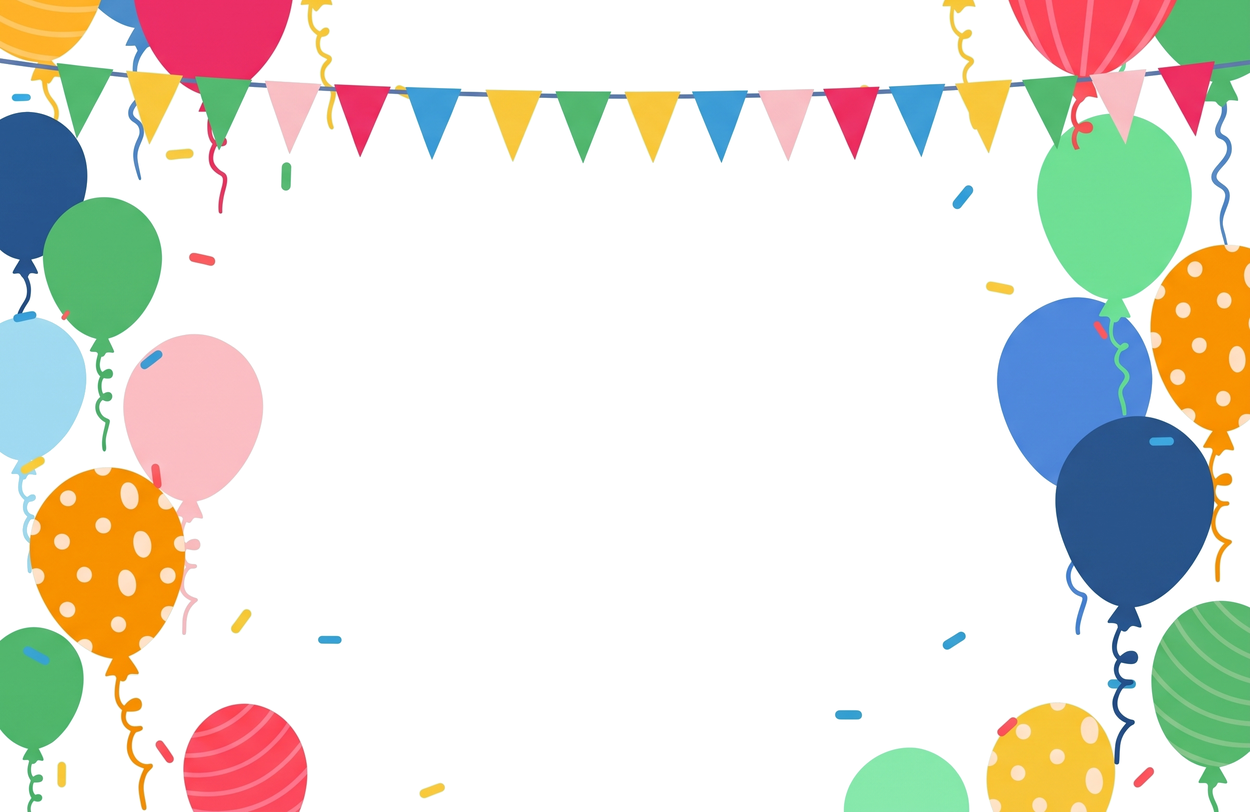
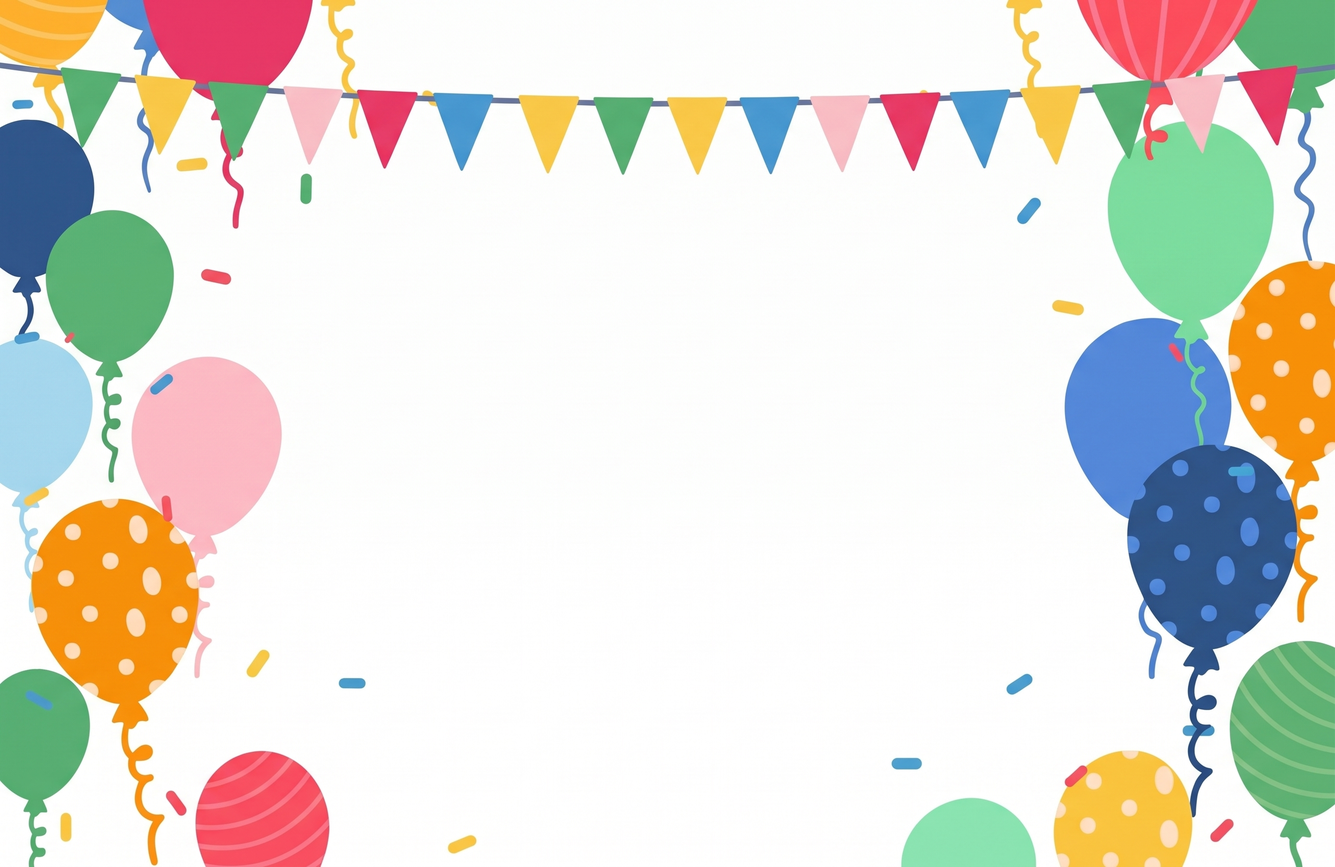
fix spacing

diff --git a/components/Birthdayhero.tsx b/components/Birthdayhero.tsx
@@ -1,34 +1,40 @@
 "use client";
 
 /**
- * Replaces the old dark `celebration-hero` gradient banner. Balloon and
- * confetti colors are lifted from the supplied party-invite reference
- * (gold stripe, sky blue, magenta, red stripe, green, orange polka-dot),
- * hand-drawn as raw SVG fills the same way HowItWorks.tsx / Onboarding.tsx
- * already do their icon art.
+ * The section's aspect ratio is locked to the artwork's own aspect ratio
+ * (2400x1792, ~4:3). That's the key fix: previously the section's height
+ * was driven purely by its content (photo + headline + paragraph), so on
+ * a narrow phone it ended up much taller and skinnier than the artwork
+ * was drawn for -- forcing `object-cover` to crop away most of the left
+ * and right balloon columns just to fill that shape. Locking the aspect
+ * ratio means the card is always proportioned like the artwork itself, on
+ * any phone width, so the same amount of balloon shows every time (this
+ * is why the wide-screenshot version looked right: at that width the
+ * section's natural aspect ratio happened to already be close to 4:3).
  *
- * Layout is mobile-first and intentionally non-interactive: balloons +
- * bunting + confetti live in an absolutely-positioned, pointer-events-none
- * layer clipped to the section's rounded corners, concentrated at the top
- * edge and the two side edges so they frame the photo/headline/paragraph
- * instead of competing with them. Nothing below the paragraph — no badge,
- * no button, no icon row.
+ * Content sizing below (photo/headline/paragraph) is tuned to fit inside
+ * that aspect-locked height at common phone widths (~360-430px). If a
+ * device renders the headline on three lines instead of two, the box will
+ * grow slightly taller than the strict ratio (CSS aspect-ratio yields to
+ * content rather than clipping it) -- a small amount of extra side-crop
+ * in that edge case, not breakage.
  */
 
 export function BirthdayHero() {
   return (
-    <section className="relative overflow-hidden rounded-[2rem] bg-[#eaf3fd] px-6 pb-10 pt-14 sm:px-10 sm:pt-16">
+    <section className="relative aspect-[4/3] w-full overflow-hidden rounded-[2rem] bg-paper">
       <img
         src="/party-frame.png"
         alt=""
         aria-hidden
         className="pointer-events-none absolute inset-0 h-full w-full object-cover"
       />
-      <div className="relative z-10 flex flex-col items-center text-center">
-        <div className="polaroid-frame relative w-[62%] max-w-[220px] rotate-2 rounded-sm">
+
+      <div className="relative z-10 flex h-full flex-col items-center px-6 pt-4 text-center sm:pt-6">
+        <div className="polaroid-frame relative -mt-2 w-[30%] max-w-[150px] rotate-2 rounded-sm sm:w-[26%] sm:max-w-[190px]">
           <span
             aria-hidden
-            className="absolute -top-2.5 left-1/2 h-4 w-11 -translate-x-1/2 -rotate-2 rounded-[1px] bg-butter/80 shadow-sm sm:-top-3 sm:h-5 sm:w-16"
+            className="absolute -top-2 left-1/2 h-3 w-8 -translate-x-1/2 -rotate-2 rounded-[1px] bg-butter/80 shadow-sm sm:-top-2.5 sm:h-4 sm:w-11"
           />
           <div className="aspect-square w-full overflow-hidden rounded-[2px] bg-line/40">
             <img
@@ -39,11 +45,11 @@ export function BirthdayHero() {
           </div>
         </div>
 
-        <h1 className="mt-7 max-w-xs font-display text-[1.9rem] leading-[1.05] text-ink sm:max-w-md sm:text-4xl">
+        <h1 className="mt-3 max-w-[16rem] font-display text-[1.55rem] leading-[1.08] text-ink sm:mt-5 sm:max-w-md sm:text-4xl">
           A little book of blessings and birthday joy.
         </h1>
 
-        <p className="mt-4 max-w-xs text-[13px] italic leading-relaxed text-muted sm:max-w-sm sm:text-base">
+        <p className="mt-2 max-w-[15rem] text-[12px] italic leading-relaxed text-muted sm:mt-4 sm:max-w-sm sm:text-base">
           Drop in your favorite snapshots from the day so we can hold onto every
           blessing, laugh, and candle.
         </p>

diff --git a/app/page.tsx b/app/page.tsx
@@ -5,10 +5,10 @@ import { Gallery } from "@/components/Gallery";
 import { Onboarding } from "@/components/Onboarding";
 import { UploadButton } from "@/components/UploadButton";
 import { UploadProgress } from "@/components/UploadProgress";
+import { BirthdayHero } from "@/components/BirthdayHero";
 import { useGalleryPolling } from "@/hooks/useGalleryPolling";
 import { useOnboarding } from "@/hooks/useOnboarding";
 import { useUpload } from "@/hooks/useUpload";
-import { BirthdayHero } from "@/components/BirthdayHero";
 
 export default function Page() {
   const { showOnboarding, dismiss } = useOnboarding();
@@ -40,7 +40,7 @@ export default function Page() {
           </span>
 
           <p className="font-display text-lg leading-none text-ink">
-            Kai&apos;s Dedication &amp; Birthday
+            Kai&apos;s Birthday &amp; Dedication
           </p>
         </div>
       </header>

diff --git a/app/layout.tsx b/app/layout.tsx
@@ -21,7 +21,7 @@ export const viewport: Viewport = {
   initialScale: 1,
   maximumScale: 1,
   viewportFit: "cover",
-  themeColor: "#dafefe",
+  themeColor: "#f6f9ff",
 };
 
 export default function RootLayout({
